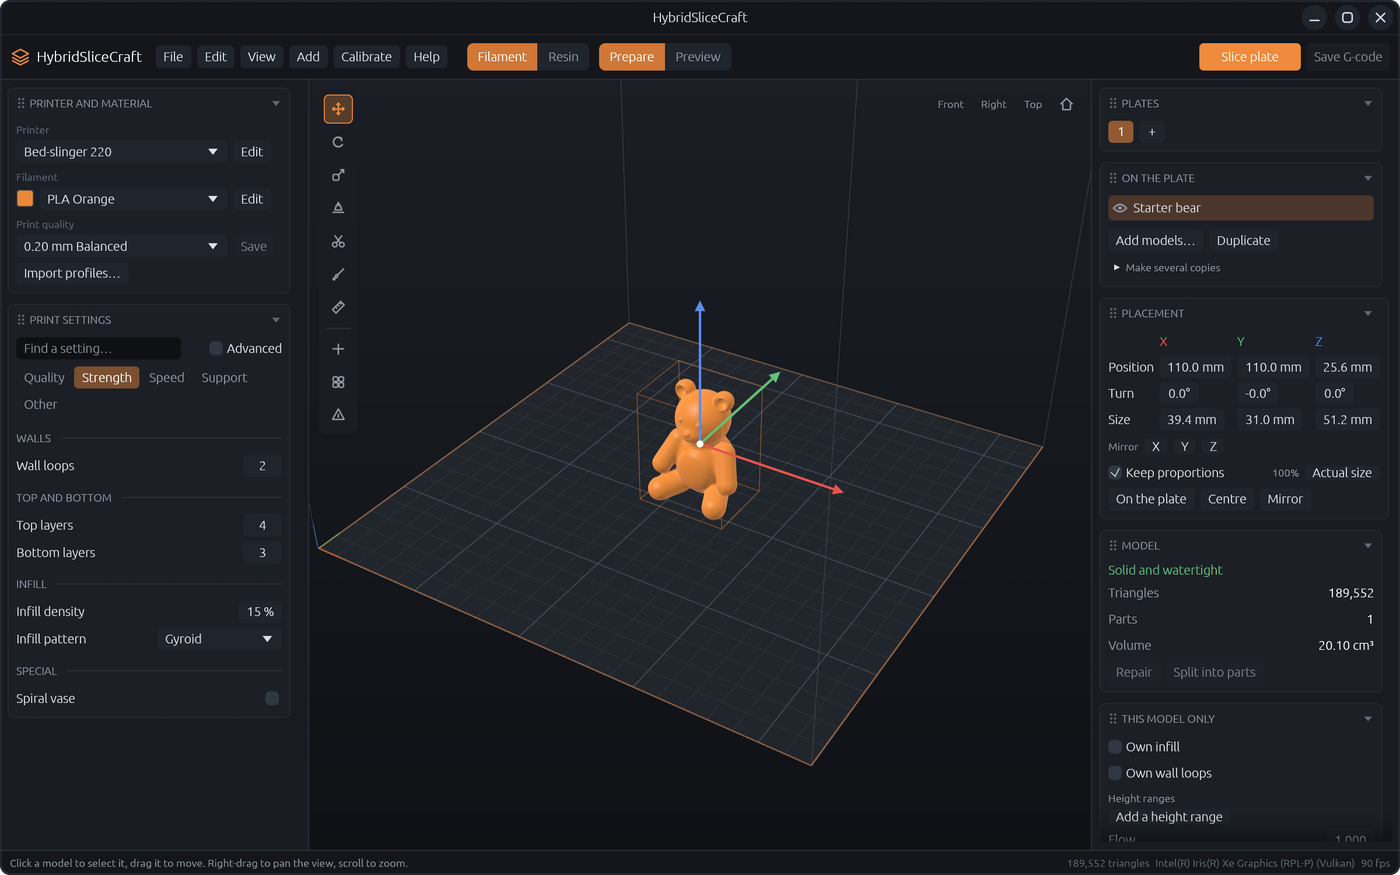
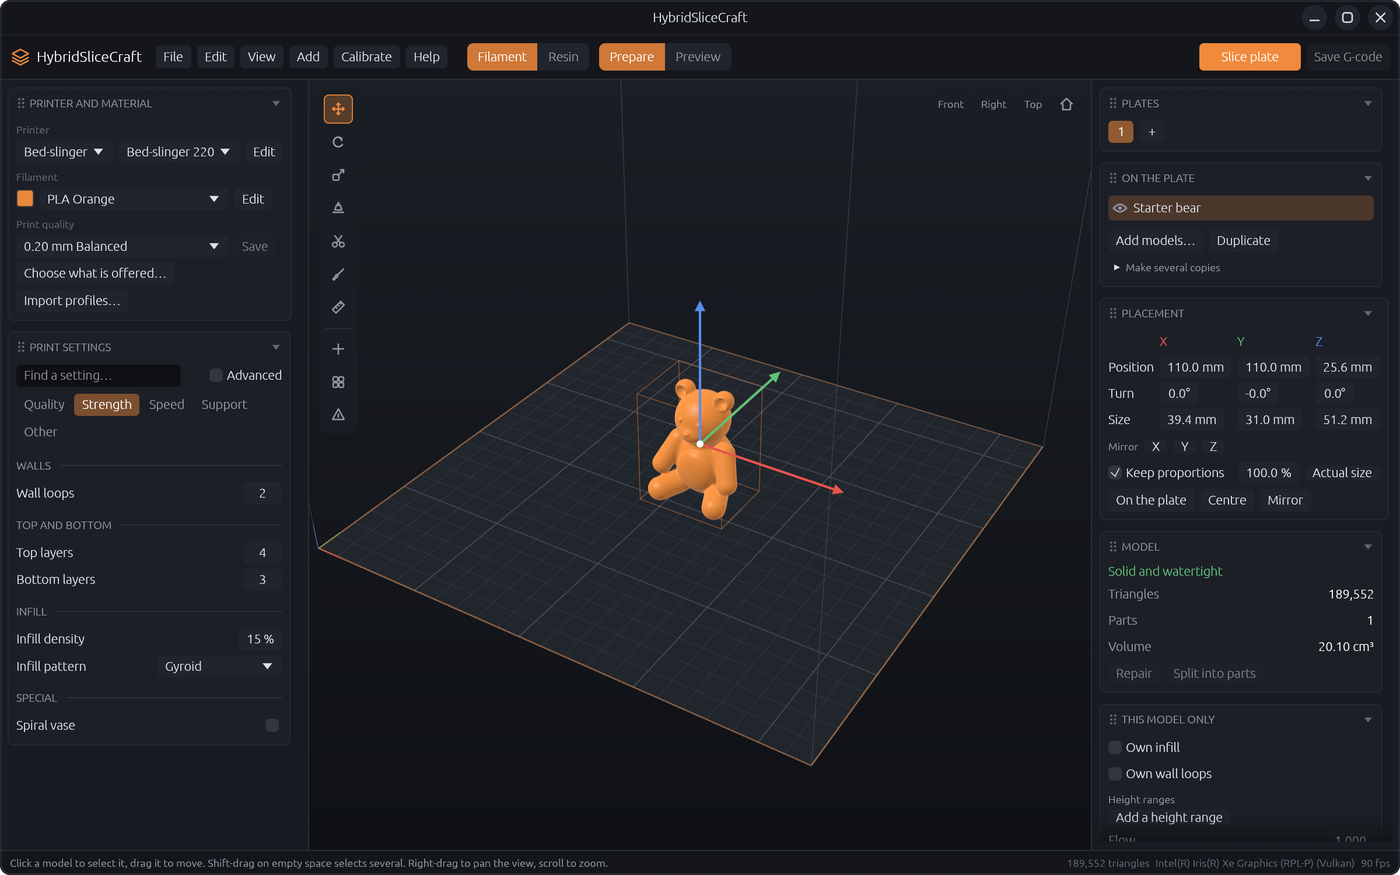
Release 0.14.0

diff --git a/release-notes/v0.14.0.md b/release-notes/v0.14.0.md
@@ -1,0 +1,30 @@
+**HybridSliceCraft 0.14.0** is about making the program fit the way you work. Most of these came from your issues. Thank you!
+
+## Shorter lists
+
+- **Printers by make.** Pick the make first, then the printer of that make.
+- **Choose what is offered.** The new **Choose what is offered…** button opens a window where every printer, filament, resin and print quality can be ticked in or out. Hidden presets leave the drop-down lists but are not deleted; tick them again to bring them back. **Show everything** and **Only those in use** do it in one go. Your choice is saved.
+
+## Working on the plate
+
+- **Resize by percentage.** The percent value in the Placement card is now a field you can type in or drag. With several models selected they all change by the same percentage, handy for multi-part prints.
+- **Select several models with a box.** Hold shift and drag over the view with the Move, Turn or Resize tool. Everything the box touches is added to the selection.
+
+## Importing presets
+
+- **Orca filament presets** exported by a user, which hold only what was changed, were taken for print-quality presets. That put the filament in the wrong list and gave odd layer settings. They are now recognised as filaments.
+- **Resin presets.** Import profiles now also reads PrusaSlicer resin `.ini` files, a config bundle or a single exported preset, and the button is also in resin mode. You get the printer's display size and pixels, the resin's exposure times, density, colour and cost, and the print settings' layer height, fade layers, hollow wall, support sizes and pad.
+
+## Fixes
+
+- **Light Windows theme.** With Windows in light mode, pop-ups and some text came out light on the dark panels and were hard to read. The program now follows its own Dark or Light choice for everything, including the window's title bar.
+
+All pictures in the README and the manual were made again.
+
+## Good to know
+
+- Filament printers are grouped by the first word of their name, so a few built-in generic ones sit under odd makes. Imported and your own printers will group as you name them.
+- The PrusaSlicer import has been tried on made-up files that follow its format, not yet on a real bundle from the program. Tell us if a file doesn't read right.
+- The Windows theme fix could not be tried on Windows before release.
+
+None of the saved files have been tried on a real printer yet. Check a small print first.

diff --git a/README.md b/README.md
@@ -86,7 +86,7 @@ On Debian and Ubuntu you can also install from the apt repository, which keeps t
 
 There is also a Flatpak file (`HybridSliceCraft-<version>-x86_64.flatpak`) on each release:
 
-    flatpak install --user HybridSliceCraft-0.13.0-x86_64.flatpak
+    flatpak install --user HybridSliceCraft-0.14.0-x86_64.flatpak
 
 The installers aren't code-signed yet. Windows SmartScreen and macOS Gatekeeper will warn on first launch; on macOS, right-click the app and choose Open.
 
